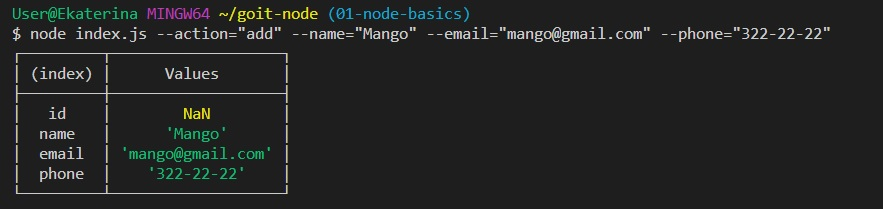
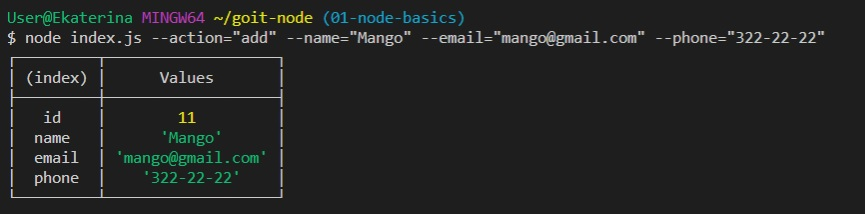
fixed 'add'

diff --git a/contacts.js b/contacts.js
@@ -24,7 +24,12 @@ async function removeContact(contactId) {
 
 async function addContact(name, email, phone) {
   const contacts = await listContacts();
-  const newContact = { id: contacts.lenght + 1, name, email, phone };
+  const newContact = {
+    id: contacts.length + 1,
+    name,
+    email,
+    phone,
+  };
   contacts.push(newContact);
   await fs.writeFile(contactsPath, JSON.stringify(contacts));
   return newContact;
